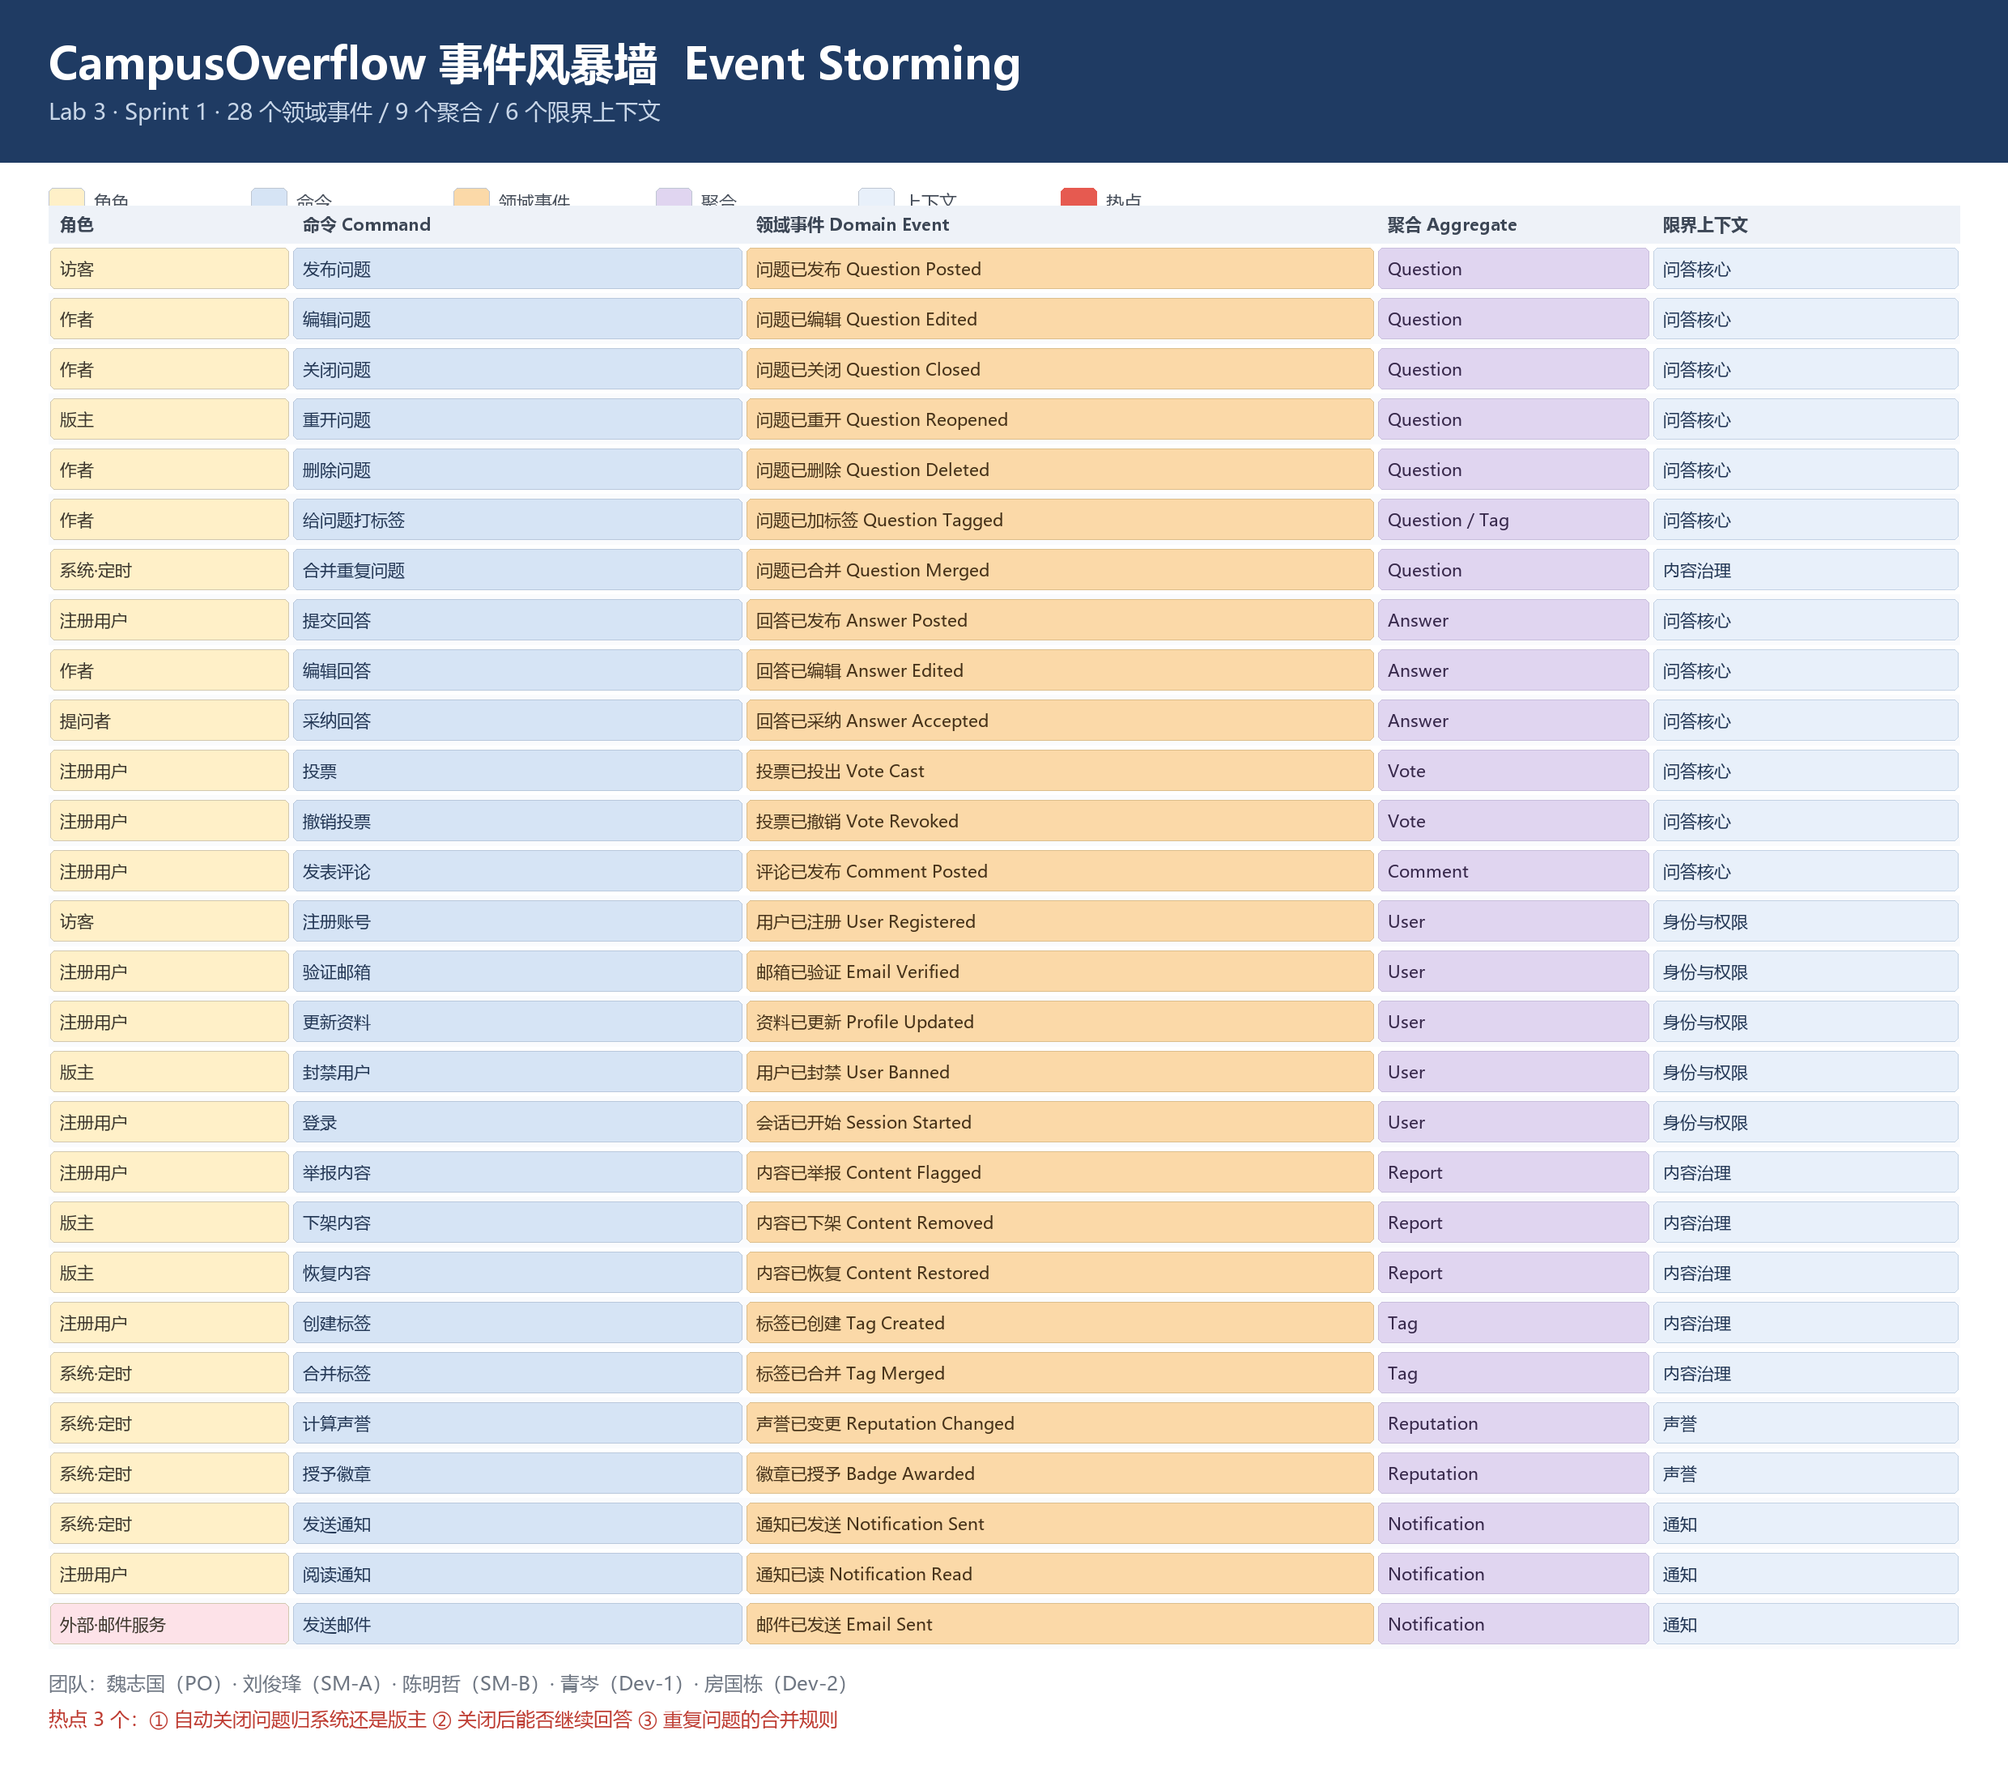
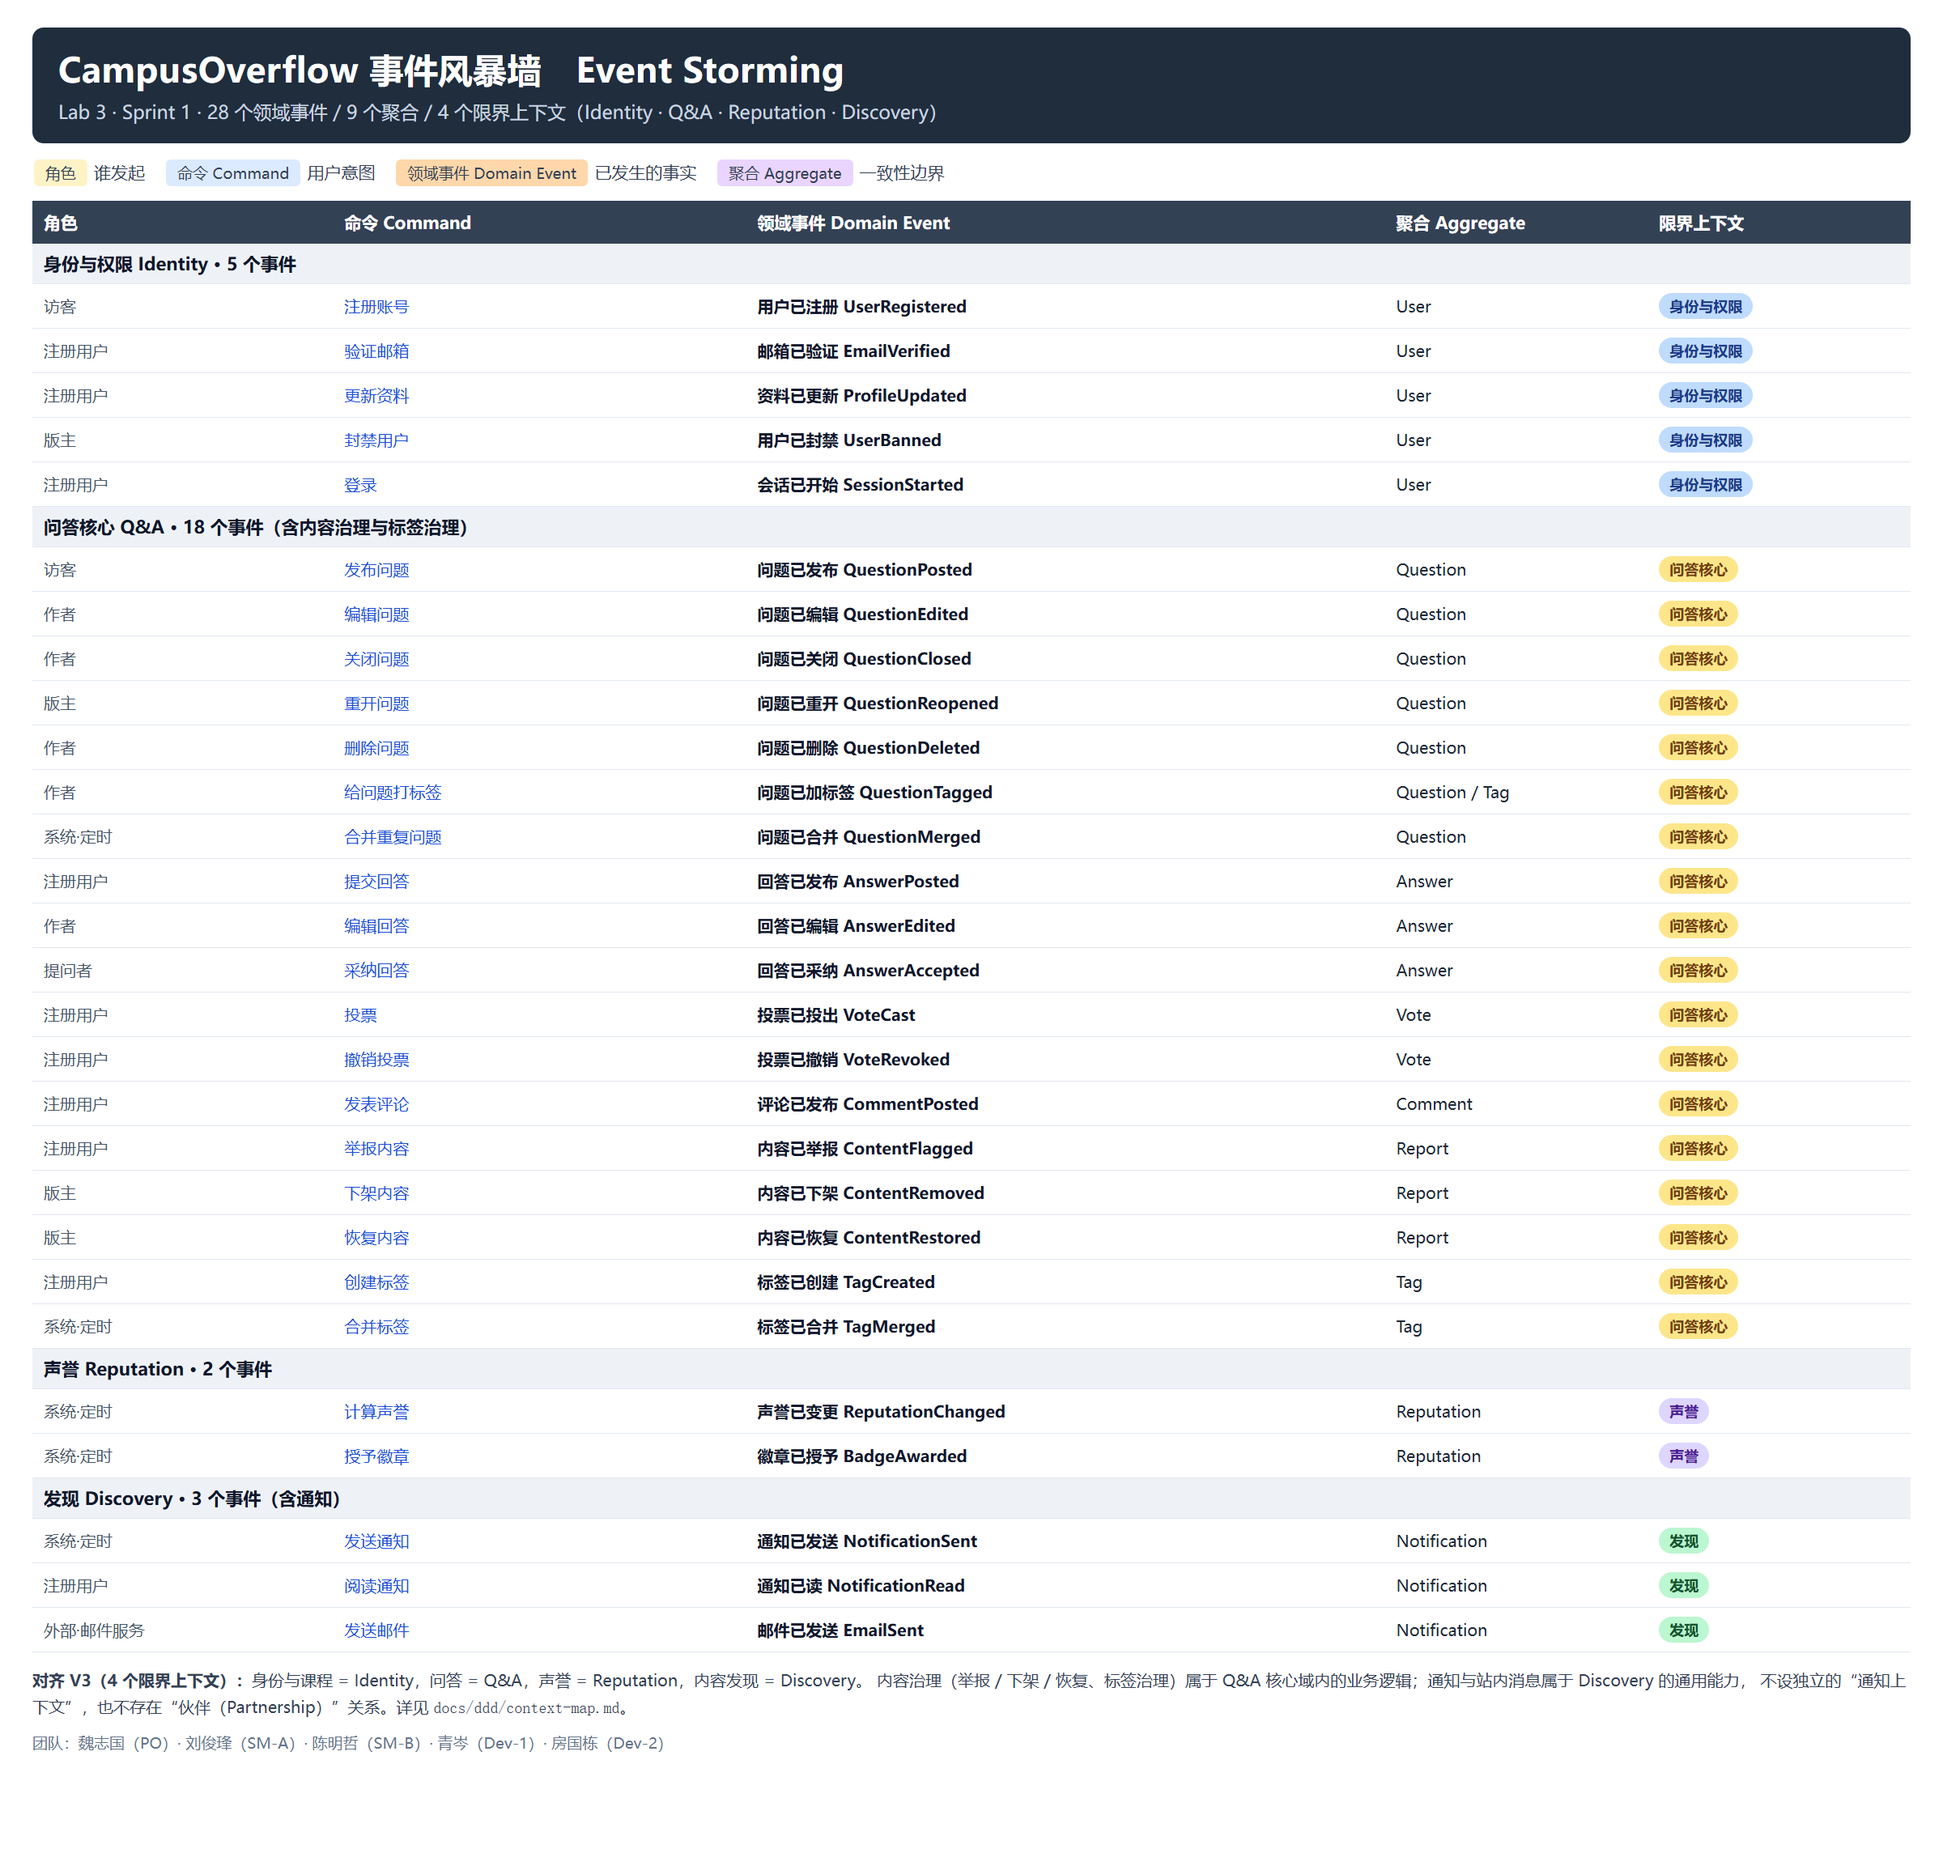
docs(lab2/lab3): align event storming to 4 contexts and add Sprint 1 tasks
Lab3: rebuild event-storming.png with the V3 four bounded contexts
(Identity, Q&A, Reputation, Discovery); fold content moderation and tag
governance into Q&A, and move notifications into Discovery. Update the
glossary entries that still referenced a separate notification context.

Lab2 Step 4: break US-01~US-04 into 12 Task cards with a single owner
each (52h total), add the breakdown table to sprint-1-plan.md, and replace
the Sprint 1 board image with story cards plus nested task cards.

diff --git a/docs/sprint/sprint-1-plan.md b/docs/sprint/sprint-1-plan.md
@@ -29,3 +29,26 @@
 - 本 Sprint **不包含**提交回答、点赞、收藏、标签筛选、采纳，这些排在 Sprint 2（对应 US-05 ~ US-09）。
 - 承诺范围的唯一来源是 `docs/backlog/product-backlog.md` 的「迭代点数合计」表：Sprint1 = PB-05 ~ PB-08 = 13 点；
   本文件只做镜像引用，不再自行估算点数。改点数须先改 backlog，再同步本表合计（`docs/sprint/sprint-1-plan.md` 与 backlog 的 Sprint1 合计必须相等）。
+
+## 四、Sprint 1 任务拆解（US-01 ~ US-04 → Task）
+
+> 依据《实验指导书 V3》6.3.1 与 Lab2 Step 4“故事拆任务并分配责任人”。
+> 任务卡同步到 `docs/sprint-1-backlog.png` 的 To Do 列（故事卡下嵌套 Task 卡）。
+
+| 任务 | 所属故事 | 任务内容 | 负责人 | 工时 | 产出 / 验收 |
+| --- | --- | --- | --- | --- | --- |
+| T1-01 | US-01 注册账号（3 SP） | 注册接口联调与校验（用户名 / 邮箱 / 密码规则） | 房国栋 | 4h | 注册接口通过 `US-01.feature` 场景 |
+| T1-02 | US-01 | 注册页表单、校验与错误提示 | 青岑 | 4h | 前端可完成注册并登录 |
+| T1-03 | US-01 | US-01 验收与回归（4 条 Gherkin 场景） | 陈明哲 | 4h | `US-01.feature` 全通过 |
+| T2-01 | US-02 发布问题（5 SP） | 发布问题领域层与应用层，标签、课程关联 | 房国栋 | 8h | 发布接口 + 领域单测 |
+| T2-02 | US-02 | 提问页（标题 / 正文 / 标签 / 课程选择） | 青岑 | 8h | 发布成功后进入详情 |
+| T2-03 | US-02 | US-02 验收与前后端联调 | 刘俊琒 | 4h | `US-02.feature` 全通过 |
+| T3-01 | US-03 问题列表（3 SP） | 列表查询与分页接口 | 房国栋 | 4h | 分页、排序返回正确 |
+| T3-02 | US-03 | 列表页与分页交互 | 青岑 | 4h | 列表可分页浏览 |
+| T3-03 | US-03 | US-03 验收与性能检查 | 陈明哲 | 4h | `US-03.feature` 全通过 |
+| T4-01 | US-04 问题详情（2 SP） | 详情接口（含已删除 / 无权限 / 无回答态） | 房国栋 | 3h | 详情接口覆盖 4 个场景 |
+| T4-02 | US-04 | 详情页渲染与状态提示 | 青岑 | 3h | 详情页可正常访问 |
+| T4-03 | US-04 | US-04 验收与文档同步 | 魏志国 | 2h | `US-04.feature` 全通过 |
+
+**任务合计：52h（13 SP × 4h）**。按负责人：房国栋 19h、青岑 19h、陈明哲 8h、刘俊琒 4h、魏志国 2h；
+均低于本 Sprint 140h 的团队容量。每个 Task 卡只有一个责任人，完成后在 `docs/sprint-1-backlog.png` 对应卡片上推进状态。

diff --git a/docs/ddd/glossary.md b/docs/ddd/glossary.md
@@ -22,9 +22,9 @@
 | 徽章 | Badge | 用户达成条件后获得的荣誉标识 | 声誉上下文(co-reputation) |
 | 授予徽章 | GrantBadge | 系统自动给用户发放徽章 | 声誉上下文(co-reputation) |
 | 收回徽章 | RevokeBadge | 条件不满足时回收徽章 | 声誉上下文(co-reputation) |
-| 通知 | Notification | 系统推送给用户的消息 | 通知上下文 |
-| 发送通知 | SendNotification | 系统生成并推送消息 | 通知上下文 |
-| 通知已读 | MarkNotificationRead | 用户查看消息标记为已读 | 通知上下文 |
+| 通知 | Notification | 系统推送给用户的消息 | 发现上下文(co-discovery) |
+| 发送通知 | SendNotification | 系统生成并推送消息 | 发现上下文(co-discovery) |
+| 通知已读 | MarkNotificationRead | 用户查看消息标记为已读 | 发现上下文(co-discovery) |
 | 角色 | Role | 用户权限分组，普通用户、管理员等 | 身份上下文(co-identity) |
 | 账号 | Account | 用户登录凭证，绑定手机号 | 身份上下文(co-identity) |
 | 注册 | Register | 新用户创建账号 | 身份上下文(co-identity) |
@@ -34,3 +34,5 @@
 | 限界上下文 | BoundedContext | 独立业务子域边界 | 领域通用 |
 | 领域事件 | DomainEvent | 领域内发生、可被其他模块感知的事情 | 领域通用 |
 | 命令 | Command | 用户发起，要求系统执行动作的请求 | 领域通用 |
+
+> 通知不是独立限界上下文，属于 Discovery 的通用能力；V3 统一为 4 个限界上下文：Identity、Q&A、Reputation、Discovery。
